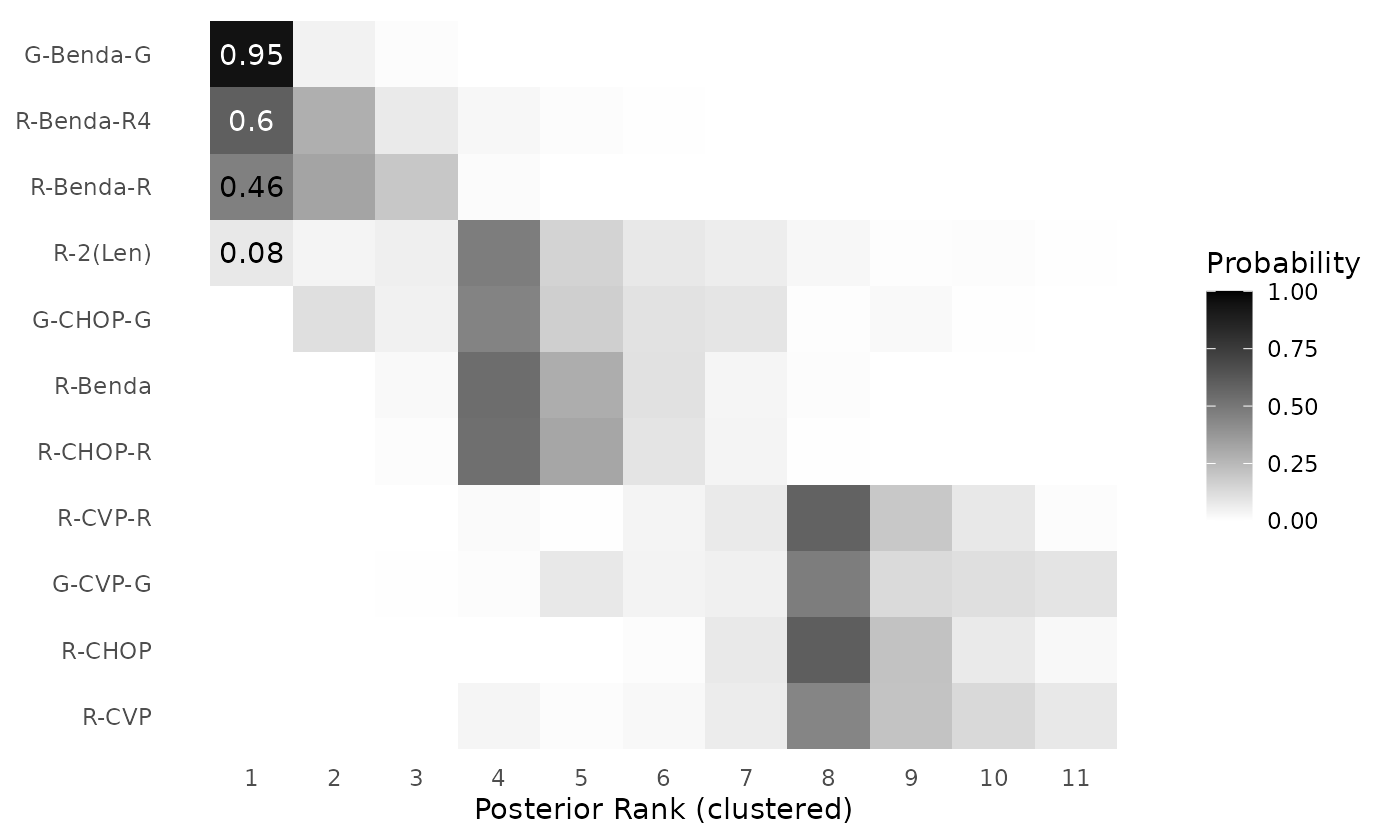
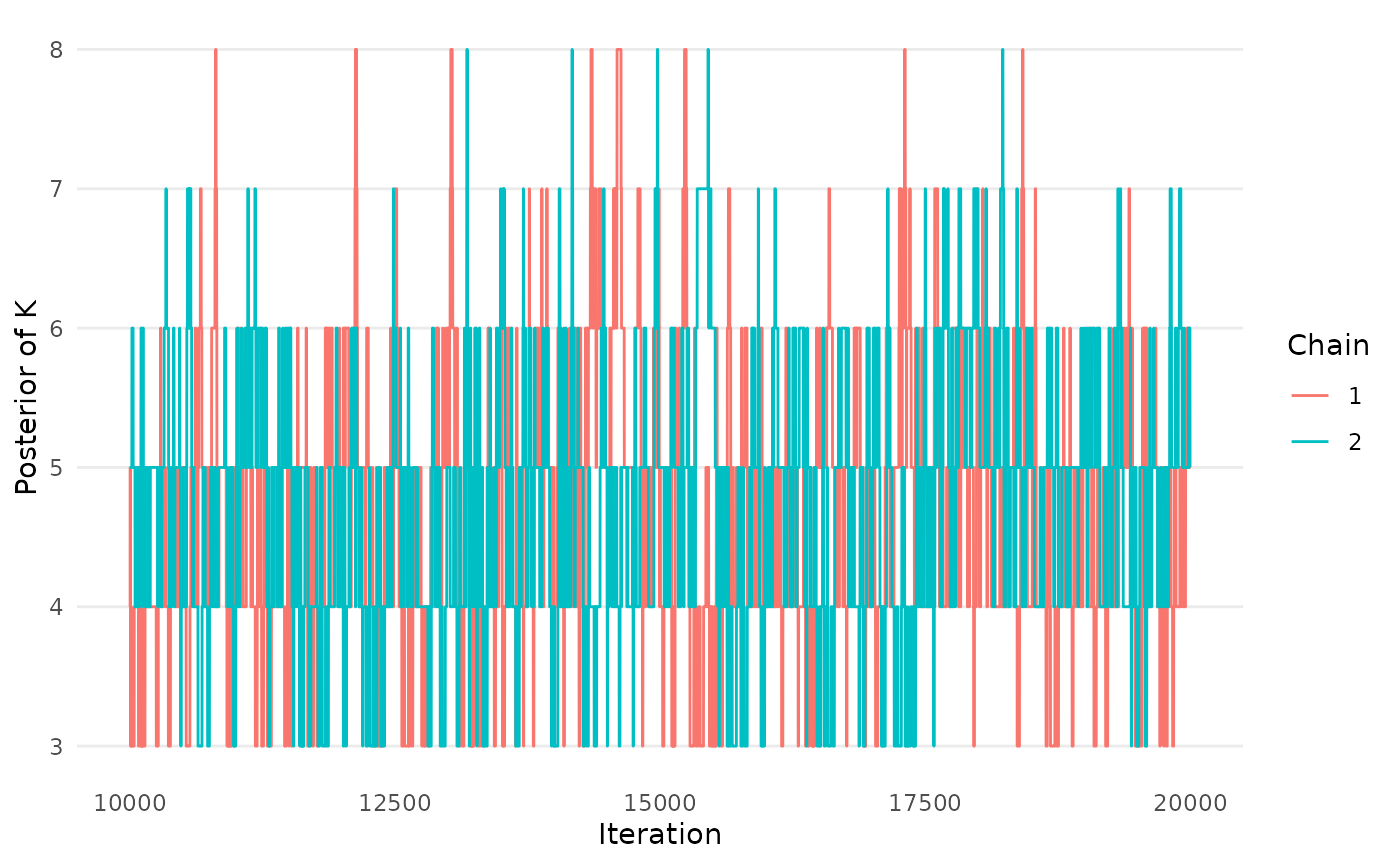
Deploying to gh-pages from @ pearce790/RaCE.NMA@00882e0d4436d72e4299d58374a4729d600a96ac 🚀

diff --git a/articles/tutorial.html b/articles/tutorial.html
@@ -129,7 +129,12 @@ CIs) via the aptly-named <code>create_forestplot</code> function:</p>
 <div class="sourceCode" id="cb3"><pre class="downlit sourceCode r">
 <code class="sourceCode R"><span><span class="fu"><a href="../reference/forestplot_muhat.html">forestplot_muhat</a></span><span class="op">(</span>data <span class="op">=</span> <span class="va">toy_data</span>, level <span class="op">=</span> <span class="fl">0.95</span>, </span>
 <span>                  order_by_average <span class="op">=</span> <span class="cn">FALSE</span><span class="op">)</span></span></code></pre></div>
-<p><img src="tutorial_files/figure-html/unnamed-chunk-4-1.png" class="r-plt" alt="" width="700"></p>
+<div class="figure">
+<img src="tutorial_files/figure-html/unnamed-chunk-4-1.png" class="r-plt" alt="Figure 1: Forest plot of estimated relative treatment effects in a toy example dataset, based on a standard NMA model." width="700"><p class="caption">
+Figure 1: Forest plot of estimated relative treatment effects in a toy
+example dataset, based on a standard NMA model.
+</p>
+</div>
 <p>We observe that the first three treatments have narrow and
 well-separated credible intervals of relative efficacy. The fourth
 treatment, however, has a very wide interval to indicate high
@@ -295,7 +300,12 @@ statistic for each <code>mu</code> parameter. We display and interpret
 each plot below.</p>
 <div class="sourceCode" id="cb9"><pre class="downlit sourceCode r">
 <code class="sourceCode R"><span><span class="fu"><a href="../reference/traceplot_mu.html">traceplot_mu</a></span><span class="op">(</span><span class="va">mcmc_results_toy</span><span class="op">)</span></span></code></pre></div>
-<p><img src="tutorial_files/figure-html/unnamed-chunk-10-1.png" class="r-plt" alt="" width="700"></p>
+<div class="figure">
+<img src="tutorial_files/figure-html/unnamed-chunk-10-1.png" class="r-plt" alt="Figure 2: Trace plots of relative treatment effects in a toy example dataset, based on the RaCE-NMA model." width="700"><p class="caption">
+Figure 2: Trace plots of relative treatment effects in a toy example
+dataset, based on the RaCE-NMA model.
+</p>
+</div>
 <p>We observe acceptable mixing and convergence in the trace plots for
 <math display="inline" xmlns="http://www.w3.org/1998/Math/MathML"><semantics><mi>μ</mi><annotation encoding="application/x-tex">\mu</annotation></semantics></math>.
 Ideally, the two chains would like similar to each other, with each
@@ -312,7 +322,12 @@ this type of behavior. Furthermore, since the chains both exhibit
 similar patterns, we are satisfied.</p>
 <div class="sourceCode" id="cb10"><pre class="downlit sourceCode r">
 <code class="sourceCode R"><span><span class="fu"><a href="../reference/traceplot_K.html">traceplot_K</a></span><span class="op">(</span><span class="va">mcmc_results_toy</span><span class="op">)</span></span></code></pre></div>
-<p><img src="tutorial_files/figure-html/unnamed-chunk-11-1.png" class="r-plt" alt="" width="700"></p>
+<div class="figure">
+<img src="tutorial_files/figure-html/unnamed-chunk-11-1.png" class="r-plt" alt="Figure 3: Trace plot of the number of rank-clusters, K, in a toy example dataset, based on the RaCE-NMA model." width="700"><p class="caption">
+Figure 3: Trace plot of the number of rank-clusters, K, in a toy example
+dataset, based on the RaCE-NMA model.
+</p>
+</div>
 <p>We again observe acceptable mixing and convergence in the trace plot
 for
 <math display="inline" xmlns="http://www.w3.org/1998/Math/MathML"><semantics><mi>K</mi><annotation encoding="application/x-tex">K</annotation></semantics></math>.
@@ -362,12 +377,12 @@ interpretation below.</p>
 <div class="sourceCode" id="cb12"><pre class="downlit sourceCode r">
 <code class="sourceCode R"><span><span class="fu"><a href="../reference/clusterplot_ranks.html">clusterplot_ranks</a></span><span class="op">(</span>mcmc<span class="op">=</span><span class="va">mcmc_results_toy</span>, label_ranks <span class="op">=</span> <span class="fl">1</span><span class="op">:</span><span class="fl">4</span><span class="op">)</span></span></code></pre></div>
 <div class="figure">
-<img src="tutorial_files/figure-html/unnamed-chunk-13-1.png" class="r-plt" alt="Posterior rank probabilities for each intervention. Ranks are displayed on the ordinal scale (1 = best). Interventions are grouped into rank clusters representing non-exclusive superiority sets; multiple interventions within the same cluster may share identical posterior ranks." width="700"><p class="caption">
-Posterior rank probabilities for each intervention. Ranks are displayed
-on the ordinal scale (1 = best). Interventions are grouped into rank
-clusters representing non-exclusive superiority sets; multiple
-interventions within the same cluster may share identical posterior
-ranks.
+<img src="tutorial_files/figure-html/unnamed-chunk-13-1.png" class="r-plt" alt="Figure 4: Posterior rank probabilities for each intervention in a toy example dataset, based on the RaCE-NMA model. Ranks are displayed on the ordinal scale (1 = best). Interventions are grouped into rank clusters representing non-exclusive superiority sets; multiple interventions within the same cluster may share identical posterior ranks." width="700"><p class="caption">
+Figure 4: Posterior rank probabilities for each intervention in a toy
+example dataset, based on the RaCE-NMA model. Ranks are displayed on the
+ordinal scale (1 = best). Interventions are grouped into rank clusters
+representing non-exclusive superiority sets; multiple interventions
+within the same cluster may share identical posterior ranks.
 </p>
 </div>
 <p>The model estimates a 0.97 probability that Treatment 1 is in first
@@ -386,7 +401,12 @@ example, we see that Treatment 4 has a 0.80 probability of being in
 first or second place.</p>
 <div class="sourceCode" id="cb13"><pre class="downlit sourceCode r">
 <code class="sourceCode R"><span><span class="fu"><a href="../reference/cumulativeprobplot_ranks.html">cumulativeprobplot_ranks</a></span><span class="op">(</span>mcmc<span class="op">=</span><span class="va">mcmc_results_toy</span><span class="op">)</span></span></code></pre></div>
-<p><img src="tutorial_files/figure-html/unnamed-chunk-14-1.png" class="r-plt" alt="" width="700"></p>
+<div class="figure">
+<img src="tutorial_files/figure-html/unnamed-chunk-14-1.png" class="r-plt" alt="Figure 5: Cumulative ranking probability curves for each intervention in a toy example dataset, based on the RaCE-NMA model." width="700"><p class="caption">
+Figure 5: Cumulative ranking probability curves for each intervention in
+a toy example dataset, based on the RaCE-NMA model.
+</p>
+</div>
 <p>The third function creates a table displaying the SUCRA value and the
 Median Number of Better Treatments (MNBT) for each treatment (with a
 corresponding credible interval). The credible level may be specified
@@ -409,21 +429,21 @@ included in the <code>RaCE.NMA</code> package and can be loaded using
 the following code:</p>
 <div class="sourceCode" id="cb15"><pre class="downlit sourceCode r">
 <code class="sourceCode R"><span><span class="fu"><a href="https://rdrr.io/r/utils/data.html" class="external-link">data</a></span><span class="op">(</span><span class="st">"wang_posterior"</span><span class="op">)</span></span>
-<span><span class="fu"><a href="https://rdrr.io/r/utils/head.html" class="external-link">head</a></span><span class="op">(</span><span class="va">wang_posterior</span><span class="op">)</span></span>
-<span><span class="co">#&gt;     R-CHOP-R    R-Benda  R-Benda-R R-Benda-R4     R-CVP     R-CVP-R   R-2(Len)</span></span>
-<span><span class="co">#&gt; 1 -0.4711188 -0.3783300 -0.9862301  -1.619193 0.3206447  0.12632840 -0.3138701</span></span>
-<span><span class="co">#&gt; 2 -0.4248054 -0.4265043 -1.0598369  -1.454095 0.2244113  0.01871014 -0.3899421</span></span>
-<span><span class="co">#&gt; 3 -0.3775619 -0.4694452 -0.9866381  -1.267246 0.3776061  0.24043637 -0.2453396</span></span>
-<span><span class="co">#&gt; 4 -0.5138314 -0.4040540 -1.0063014  -1.423337 0.2161720 -0.02002774 -0.5677317</span></span>
-<span><span class="co">#&gt; 5 -0.4872747 -0.2886939 -0.8230394  -1.017027 0.2229437 -0.05790896 -0.4187176</span></span>
-<span><span class="co">#&gt; 6 -0.3216286 -0.3649380 -0.7690168  -1.227404 0.2818887  0.27643867 -0.2829749</span></span>
-<span><span class="co">#&gt;       G-CVP-G   G-CHOP-G G-Benda-G</span></span>
-<span><span class="co">#&gt; 1 -0.10701641 -0.6979653 -1.294057</span></span>
-<span><span class="co">#&gt; 2 -0.16624487 -0.5717649 -1.432865</span></span>
-<span><span class="co">#&gt; 3  0.12289764 -0.4154261 -1.241868</span></span>
-<span><span class="co">#&gt; 4  0.19159024 -0.6859625 -1.288299</span></span>
-<span><span class="co">#&gt; 5 -0.25061236 -0.6099303 -1.157254</span></span>
-<span><span class="co">#&gt; 6  0.08449136 -0.5813818 -1.090934</span></span></code></pre></div>
+<span><span class="fu"><a href="https://rdrr.io/r/utils/head.html" class="external-link">head</a></span><span class="op">(</span><span class="va">wang_posterior</span><span class="op">)</span> <span class="op"><a href="https://magrittr.tidyverse.org/reference/pipe.html" class="external-link">%&gt;%</a></span> <span class="fu"><a href="https://rdrr.io/r/base/Round.html" class="external-link">round</a></span><span class="op">(</span><span class="fl">3</span><span class="op">)</span></span>
+<span><span class="co">#&gt;   R-CHOP-R R-Benda R-Benda-R R-Benda-R4 R-CVP R-CVP-R R-2(Len) G-CVP-G G-CHOP-G</span></span>
+<span><span class="co">#&gt; 1   -0.471  -0.378    -0.986     -1.619 0.321   0.126   -0.314  -0.107   -0.698</span></span>
+<span><span class="co">#&gt; 2   -0.425  -0.427    -1.060     -1.454 0.224   0.019   -0.390  -0.166   -0.572</span></span>
+<span><span class="co">#&gt; 3   -0.378  -0.469    -0.987     -1.267 0.378   0.240   -0.245   0.123   -0.415</span></span>
+<span><span class="co">#&gt; 4   -0.514  -0.404    -1.006     -1.423 0.216  -0.020   -0.568   0.192   -0.686</span></span>
+<span><span class="co">#&gt; 5   -0.487  -0.289    -0.823     -1.017 0.223  -0.058   -0.419  -0.251   -0.610</span></span>
+<span><span class="co">#&gt; 6   -0.322  -0.365    -0.769     -1.227 0.282   0.276   -0.283   0.084   -0.581</span></span>
+<span><span class="co">#&gt;   G-Benda-G</span></span>
+<span><span class="co">#&gt; 1    -1.294</span></span>
+<span><span class="co">#&gt; 2    -1.433</span></span>
+<span><span class="co">#&gt; 3    -1.242</span></span>
+<span><span class="co">#&gt; 4    -1.288</span></span>
+<span><span class="co">#&gt; 5    -1.157</span></span>
+<span><span class="co">#&gt; 6    -1.091</span></span></code></pre></div>
 <p>It is important to note that <code>wang_posterior</code> only
 includes relative treatment effects for non-baseline treatments. An 11th
 treatment, “R-CHOP”, was the baseline with a relative treatment effect
@@ -447,7 +467,13 @@ the 11 treatments in the study, as estimated by Wang et. al (2022).</p>
 <div class="sourceCode" id="cb17"><pre class="downlit sourceCode r">
 <code class="sourceCode R"><span><span class="fu"><a href="../reference/forestplot_muhat.html">forestplot_muhat</a></span><span class="op">(</span>data <span class="op">=</span> <span class="fu"><a href="https://rdrr.io/r/base/cbind.html" class="external-link">cbind</a></span><span class="op">(</span><span class="fl">0</span>,<span class="va">wang_posterior</span><span class="op">)</span>, </span>
 <span>                 names <span class="op">=</span> <span class="va">treatments</span><span class="op">)</span></span></code></pre></div>
-<p><img src="tutorial_files/figure-html/unnamed-chunk-18-1.png" class="r-plt" alt="" width="700"></p>
+<div class="figure">
+<img src="tutorial_files/figure-html/unnamed-chunk-18-1.png" class="r-plt" alt="Figure 6: Forest plot of estimated relative treatment effects in a network meta-analysis by Wang et. al (2022), based on a standard NMA model." width="700"><p class="caption">
+Figure 6: Forest plot of estimated relative treatment effects in a
+network meta-analysis by Wang et. al (2022), based on a standard NMA
+model.
+</p>
+</div>
 <p>Now, we proceed through the analysis pipeline.</p>
 <div class="section level3">
 <h3 id="model-estimation-1">1. Model Estimation<a class="anchor" aria-label="anchor" href="#model-estimation-1"></a>
@@ -469,10 +495,20 @@ MCMC iterations.</p>
 <p>Next, we view trace plots and convergence diagnostics.</p>
 <div class="sourceCode" id="cb19"><pre class="downlit sourceCode r">
 <code class="sourceCode R"><span><span class="fu"><a href="../reference/traceplot_mu.html">traceplot_mu</a></span><span class="op">(</span><span class="va">mcmc_results_casestudy</span>, names<span class="op">=</span><span class="va">treatments</span><span class="op">)</span></span></code></pre></div>
-<p><img src="tutorial_files/figure-html/unnamed-chunk-20-1.png" class="r-plt" alt="" width="700"></p>
+<div class="figure">
+<img src="tutorial_files/figure-html/unnamed-chunk-20-1.png" class="r-plt" alt="Figure 7: Trace plots of relative treatment effects in a network meta-analysis by Wang et. al (2022), based on the RaCE-NMA model." width="700"><p class="caption">
+Figure 7: Trace plots of relative treatment effects in a network
+meta-analysis by Wang et. al (2022), based on the RaCE-NMA model.
+</p>
+</div>
 <div class="sourceCode" id="cb20"><pre class="downlit sourceCode r">
 <code class="sourceCode R"><span><span class="fu"><a href="../reference/traceplot_K.html">traceplot_K</a></span><span class="op">(</span><span class="va">mcmc_results_casestudy</span><span class="op">)</span></span></code></pre></div>
-<p><img src="tutorial_files/figure-html/unnamed-chunk-20-2.png" class="r-plt" alt="" width="700"></p>
+<div class="figure">
+<img src="tutorial_files/figure-html/unnamed-chunk-21-1.png" class="r-plt" alt="Figure 8: Trace plot of the number of rank-clusters, K, in a network meta-analysis by Wang et. al (2022), based on the RaCE-NMA model." width="700"><p class="caption">
+Figure 8: Trace plot of the number of rank-clusters, K, in a network
+meta-analysis by Wang et. al (2022), based on the RaCE-NMA model.
+</p>
+</div>
 <div class="sourceCode" id="cb21"><pre class="downlit sourceCode r">
 <code class="sourceCode R"><span><span class="fu"><a href="../reference/calculate_Rhat.html">calculate_Rhat</a></span><span class="op">(</span><span class="va">mcmc_results_casestudy</span>, names<span class="op">=</span><span class="va">treatments</span><span class="op">)</span></span>
 <span><span class="co">#&gt; Potential scale reduction factors:</span></span>
@@ -502,10 +538,25 @@ converged, but are shown for demonstration purposes. Please see the
 Reproducibility tab for accurate results based on this data.</p>
 <div class="sourceCode" id="cb22"><pre class="downlit sourceCode r">
 <code class="sourceCode R"><span><span class="fu"><a href="../reference/clusterplot_ranks.html">clusterplot_ranks</a></span><span class="op">(</span>mcmc<span class="op">=</span><span class="va">mcmc_results_casestudy</span>, names <span class="op">=</span> <span class="va">treatments</span>, label_ranks <span class="op">=</span> <span class="fl">1</span><span class="op">)</span></span></code></pre></div>
-<p><img src="tutorial_files/figure-html/unnamed-chunk-21-1.png" class="r-plt" alt="" width="700"></p>
+<div class="figure">
+<img src="tutorial_files/figure-html/unnamed-chunk-23-1.png" class="r-plt" alt="Figure 9: Posterior rank probabilities for each intervention in a network meta-analysis by Wang et. al (2022), based on the RaCE-NMA model. Ranks are displayed on the ordinal scale (1 = best). Interventions are grouped into rank clusters representing non-exclusive superiority sets; multiple interventions within the same cluster may share identical posterior ranks." width="700"><p class="caption">
+Figure 9: Posterior rank probabilities for each intervention in a
+network meta-analysis by Wang et. al (2022), based on the RaCE-NMA
+model. Ranks are displayed on the ordinal scale (1 = best).
+Interventions are grouped into rank clusters representing non-exclusive
+superiority sets; multiple interventions within the same cluster may
+share identical posterior ranks.
+</p>
+</div>
 <div class="sourceCode" id="cb23"><pre class="downlit sourceCode r">
 <code class="sourceCode R"><span><span class="fu"><a href="../reference/cumulativeprobplot_ranks.html">cumulativeprobplot_ranks</a></span><span class="op">(</span>mcmc<span class="op">=</span><span class="va">mcmc_results_casestudy</span>, names<span class="op">=</span><span class="va">treatments</span><span class="op">)</span></span></code></pre></div>
-<p><img src="tutorial_files/figure-html/unnamed-chunk-22-1.png" class="r-plt" alt="" width="700"></p>
+<div class="figure">
+<img src="tutorial_files/figure-html/unnamed-chunk-24-1.png" class="r-plt" alt="Figure 10: Cumulative ranking probability curves for each intervention in a network meta-analysis by Wang et. al (2022), based on the RaCE-NMA model." width="700"><p class="caption">
+Figure 10: Cumulative ranking probability curves for each intervention
+in a network meta-analysis by Wang et. al (2022), based on the RaCE-NMA
+model.
+</p>
+</div>
 <div class="sourceCode" id="cb24"><pre class="downlit sourceCode r">
 <code class="sourceCode R"><span><span class="fu"><a href="../reference/calculate_SUCRA_MNBT.html">calculate_SUCRA_MNBT</a></span><span class="op">(</span>mcmc<span class="op">=</span><span class="va">mcmc_results_casestudy</span>,names<span class="op">=</span><span class="va">treatments</span>,level<span class="op">=</span><span class="fl">0.50</span><span class="op">)</span></span>
 <span><span class="co">#&gt;     Treatment    SUCRA MNBT (50% CI)</span></span>